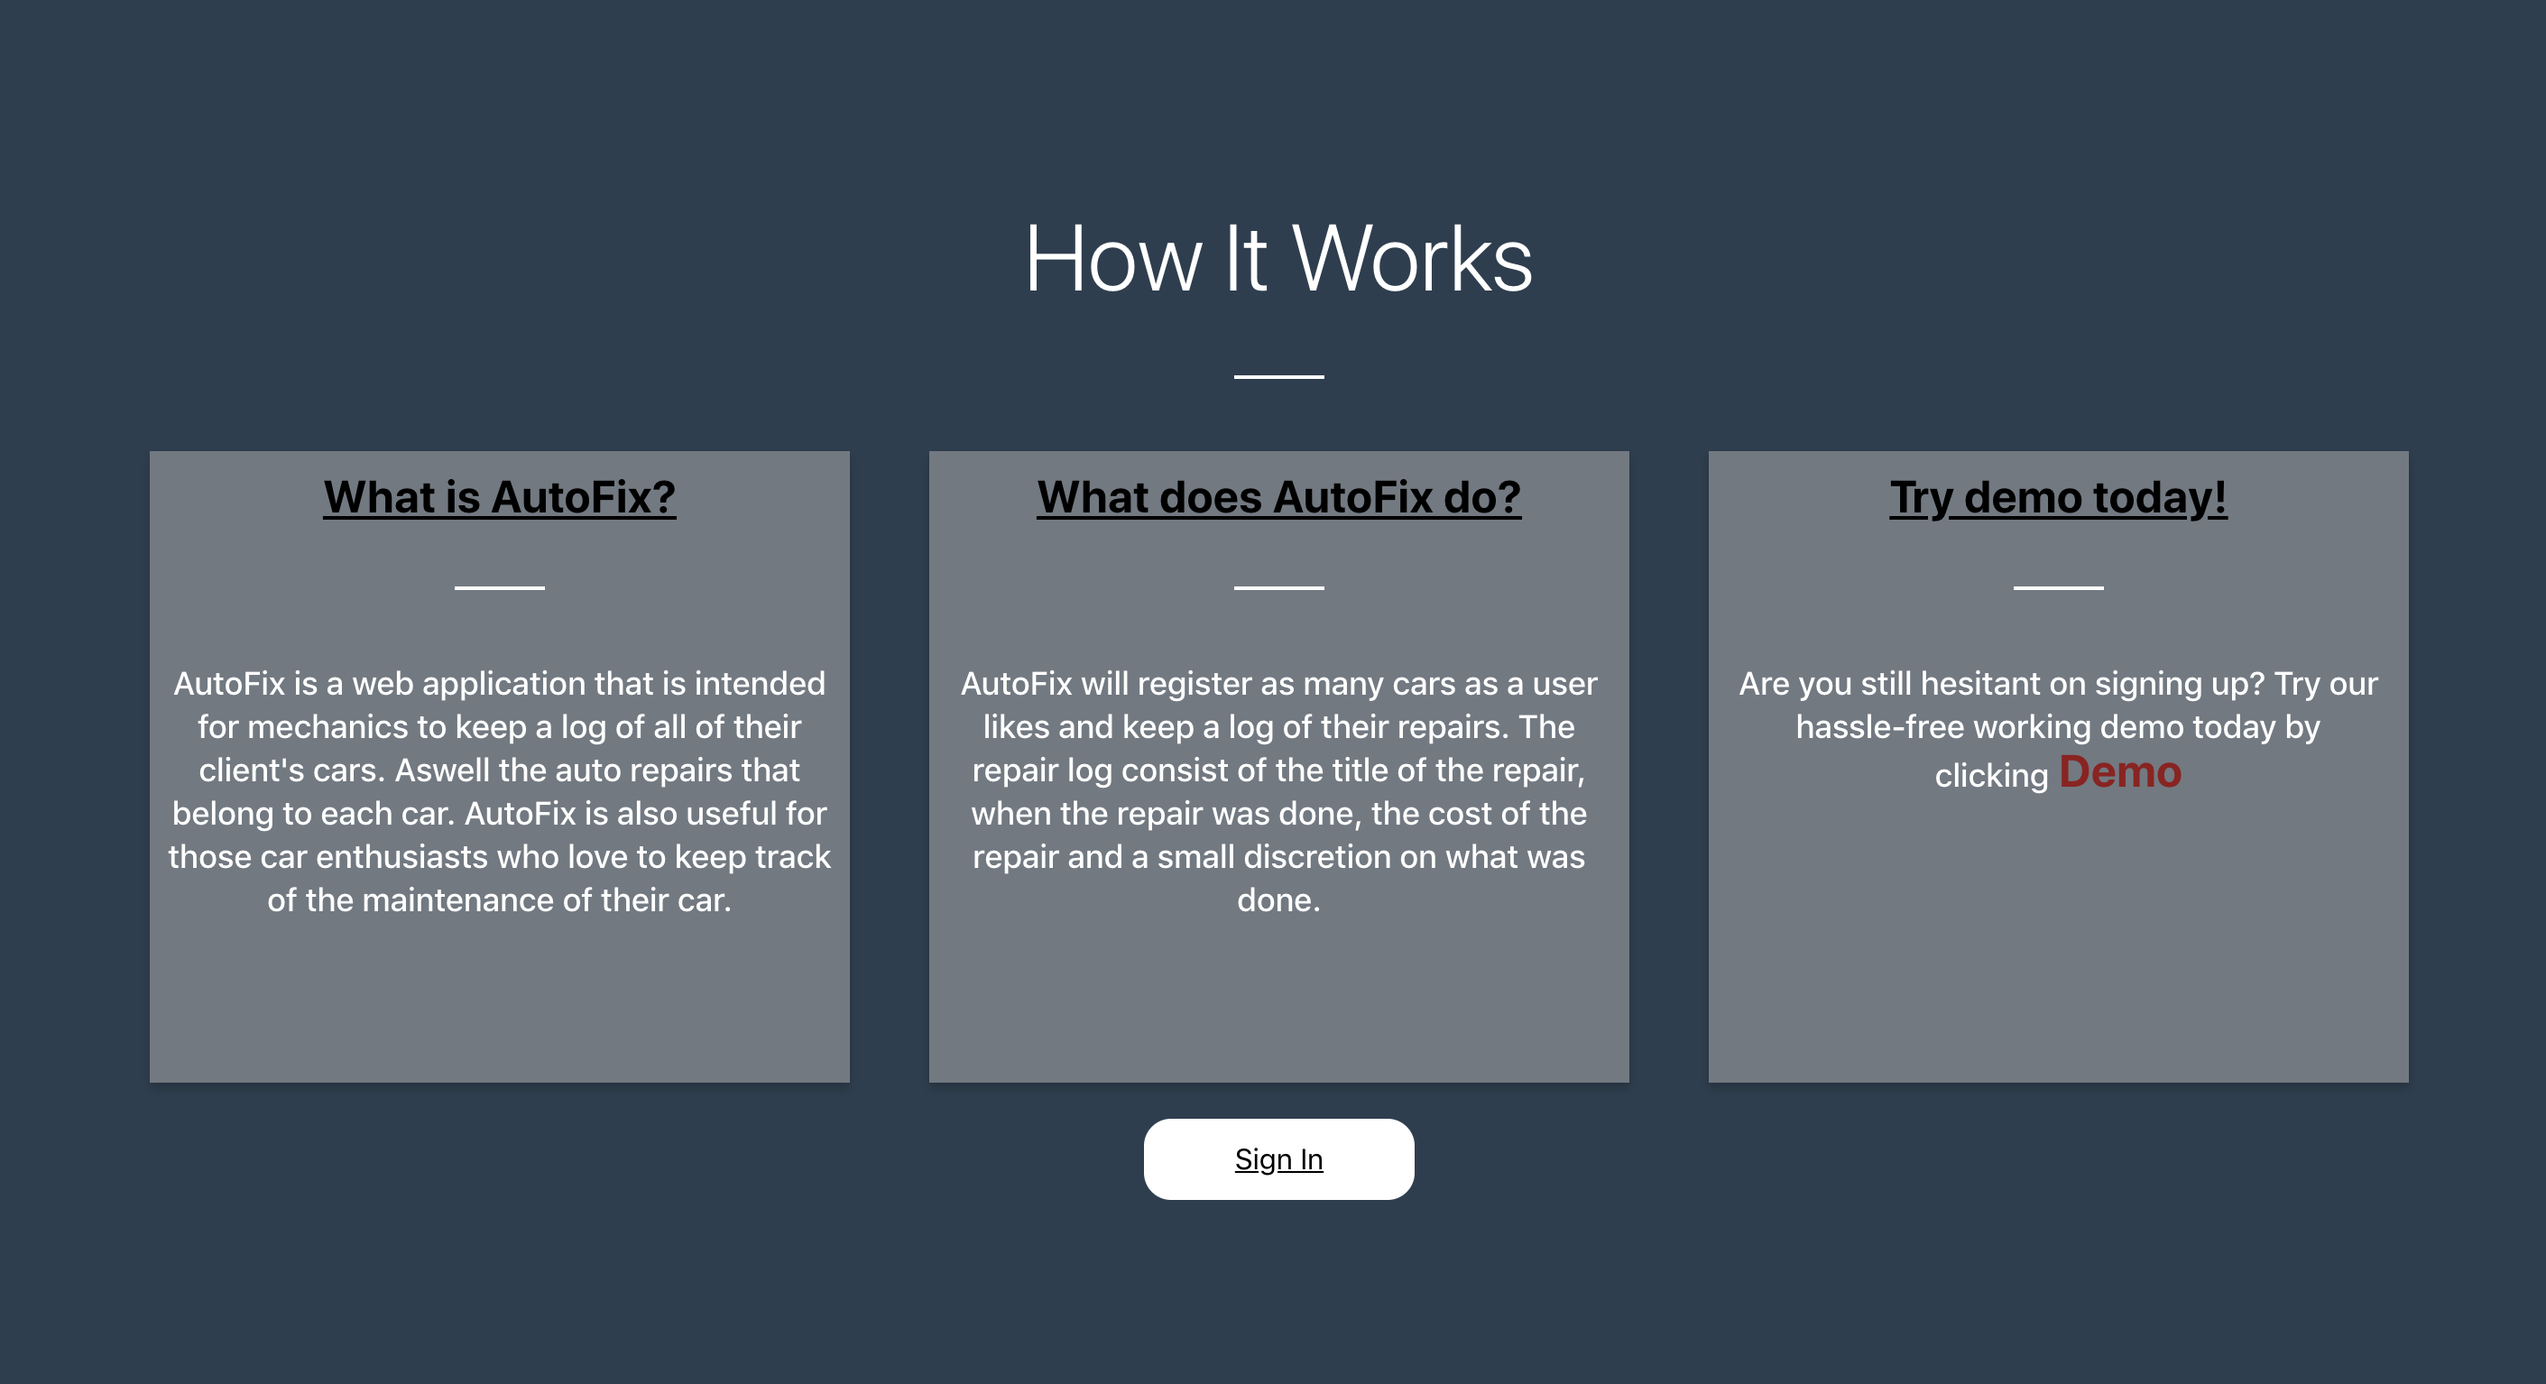
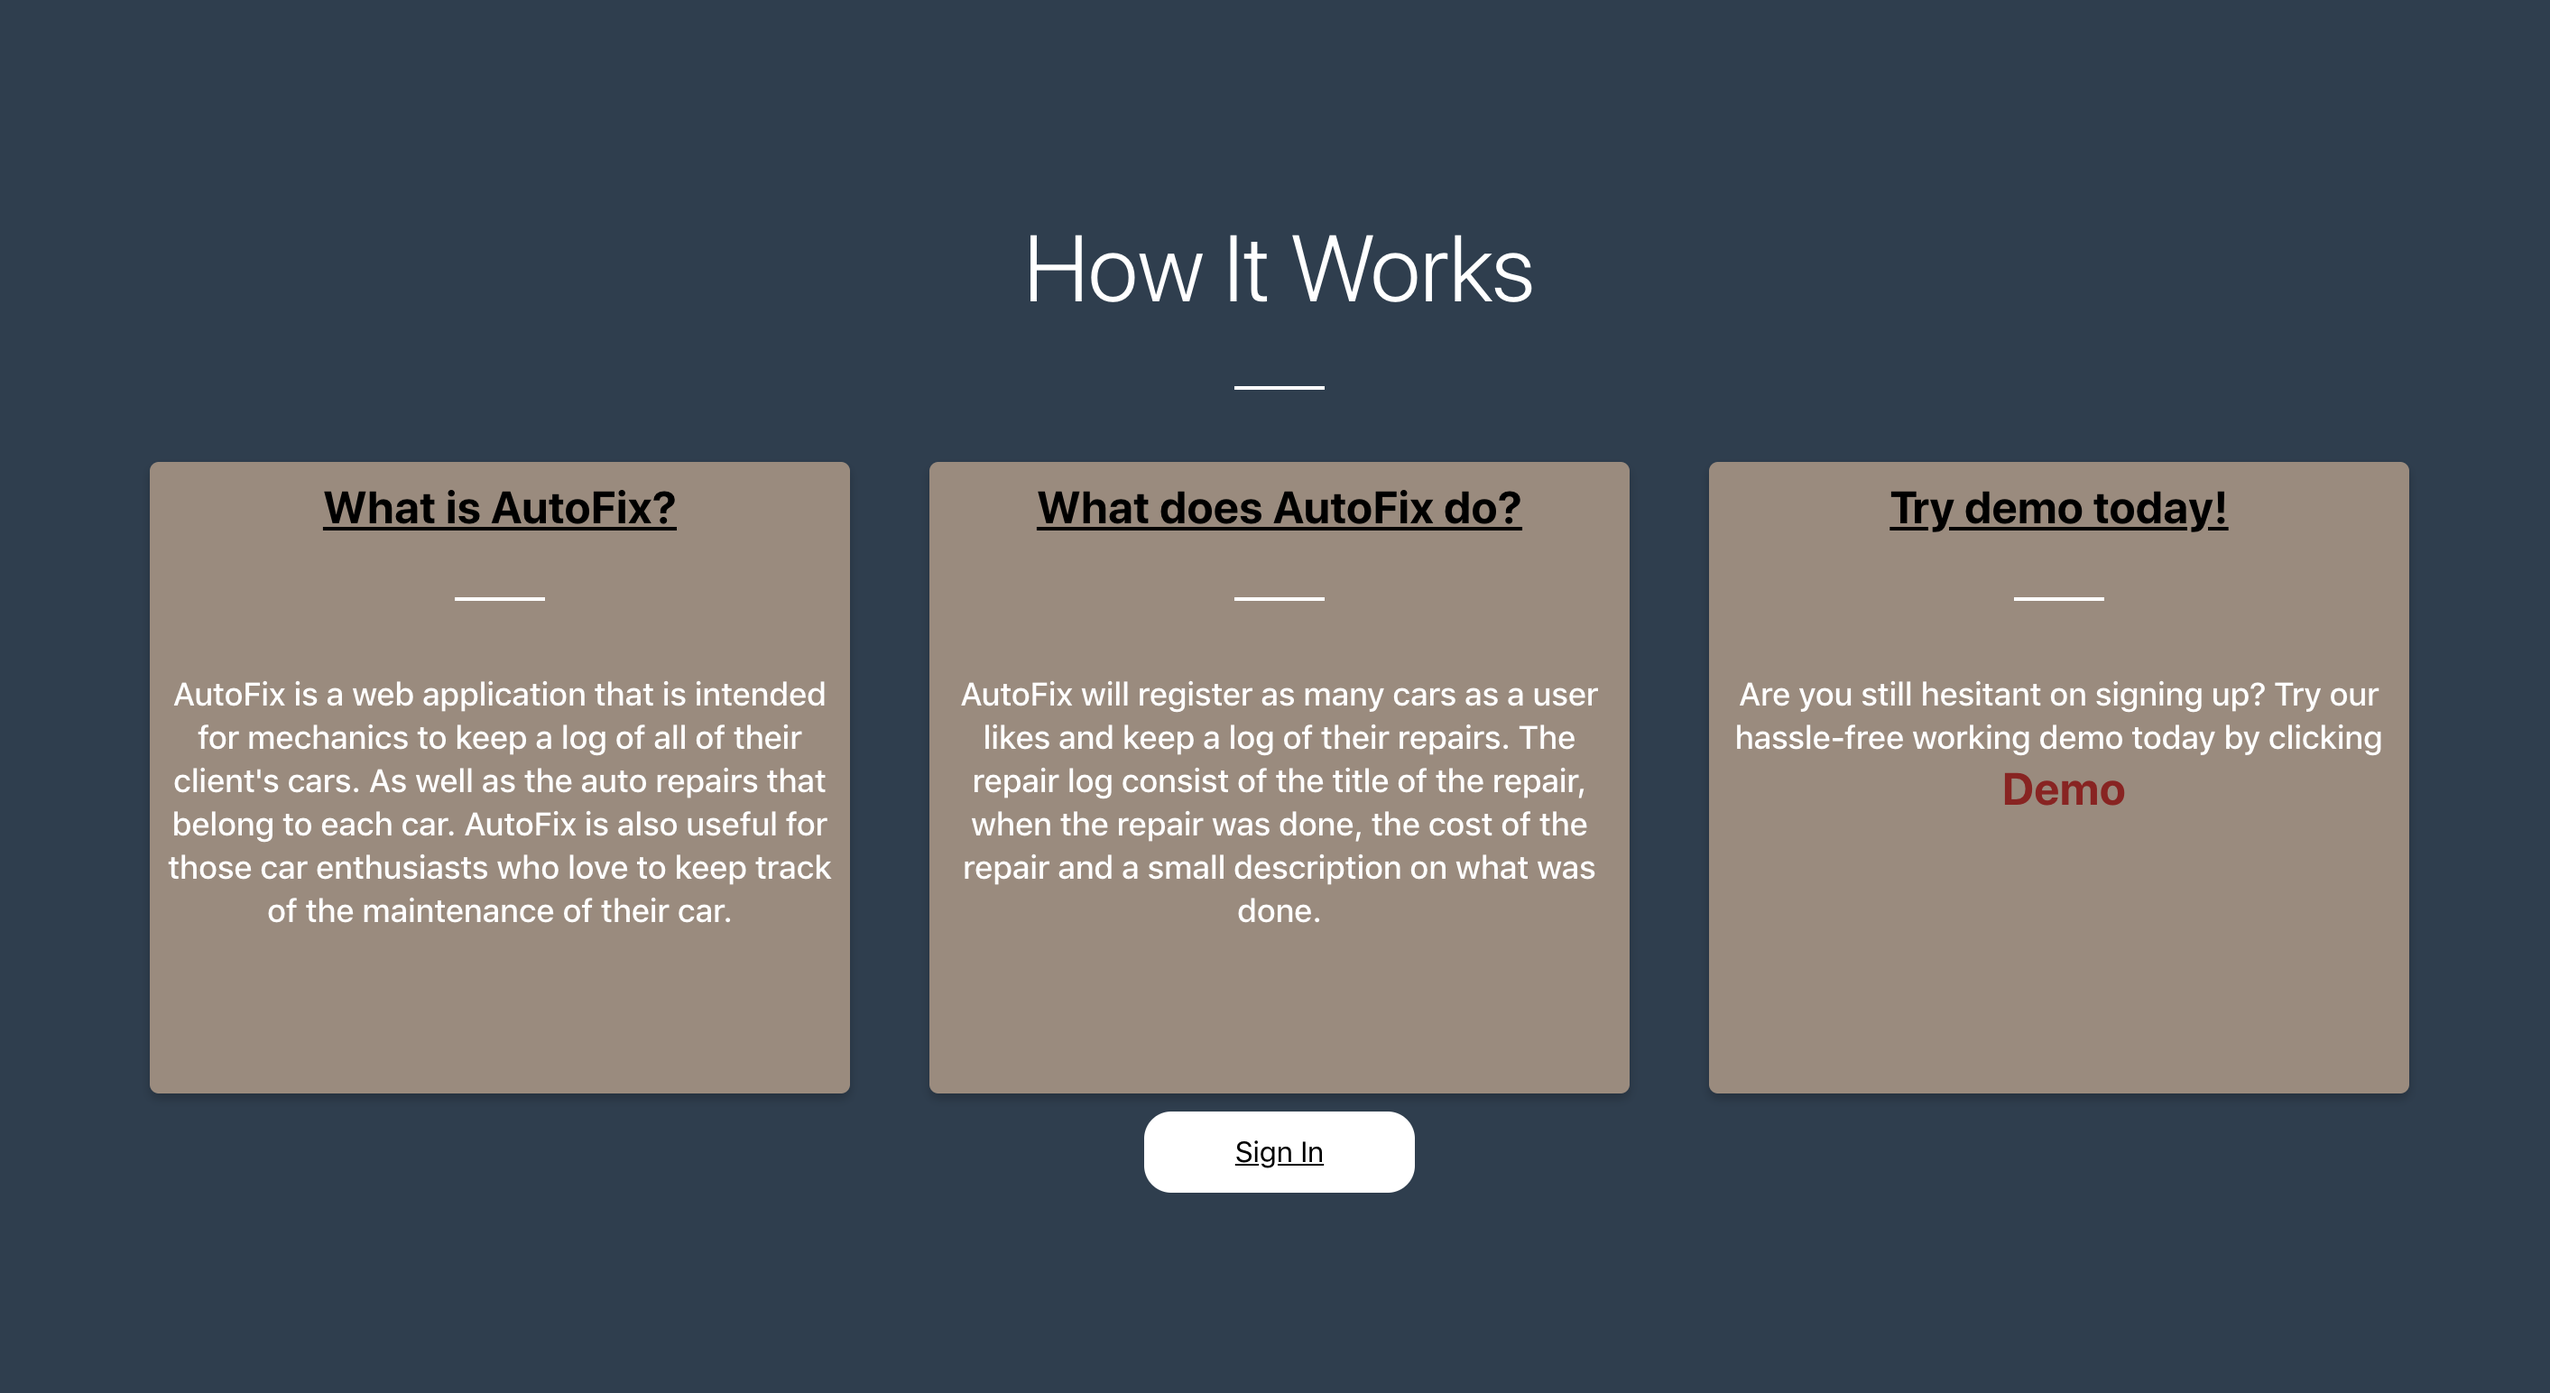
cleaned up code

diff --git a/src/Login/Login.js b/src/Login/Login.js
@@ -16,12 +16,19 @@ class Login extends React.Component {
         this.lastNameInput = React.createRef();
 
     }
+    componentDidMount() {
+        if(localStorage.authToken) {
+            this.props.history.push('/profile')
+        }
+    } 
     onLogin(value) {
         this.context.setUserName(value);
 
     }
     toggleHidden() {
         this.setState({ login: !this.state.login })
+        this.usernameInput.current.value = "";
+        this.passwordInput.current.value = "";
     }
     registerNewUser(event) {
         event.preventDefault();
@@ -72,9 +79,9 @@ class Login extends React.Component {
             return (
                 <section className="signin-register">
 
-                    <form className="signin-form">
+                    <form className="signin-form" onSubmit={e => this.loginUser(e)}>
                         <h2 className="login-header">Log In</h2>
-                        <label for="username"></label>
+                        <label htmlFor="username"></label>
                         <input
                             className="form-input"
                             id="username"
@@ -82,21 +89,22 @@ class Login extends React.Component {
                             name="username"
                             placeholder="Username"
                             ref={this.usernameInput}
-                            onChange={e => this.onLogin(e.target.value)} />
+                            onChange={e => this.onLogin(e.target.value)} required/>
                         <br /><br />
-                        <label></label>
-                        <input for="password"
+                        <label htmlFor="password"></label>
+                        <input
                             className="form-input"
                             id="password"
                             type="password"
                             name="password"
                             placeholder="Password"
                             ref={this.passwordInput}
+                            required
                         />
                         <br /><br />
-                        <button className="login-button" type="submit" onClick={e => this.loginUser(e)}>Log In</button><br /><br />
+                        <button className="login-button" type="submit">Log In</button><br /><br />
 
-                        Don't have account?<a onClick={e => this.toggleHidden()} href="#" className="register" >&nbsp;Sign Up</a>
+                        Don't have account?<button onClick={e => this.toggleHidden()} href="#" className="register" >&nbsp;Sign Up</button>
 
                     </form>
                 </section>
@@ -105,19 +113,19 @@ class Login extends React.Component {
         else {
             return (
                 <section className="signin-register">
-                    <form className="register-form">
+                    <form className="register-form"  onSubmit={e => this.registerNewUser(e)}>
                         <h2 className="register-header">Sign Up</h2>
-                        <label for="userName"></label>
-                        <input className="form-input" id="userName" type="text" name="userName" placeholder="Username" ref={this.usernameInput} /><br /><br />
-                        <label for="firstName"></label>
-                        <input className="form-input" id="firstName" type="text" name="firstName" placeholder="First name" ref={this.nameInput} /><br /><br />
-                        <label for="lastName"></label>
-                        <input className="form-input" id="lastName" type="text" name="lastName" placeholder="Last name" ref={this.lastNameInput} /><br /><br />
-                        <label for="password"></label>
-                        <input className="form-input" id="password" type="password" name="pass" placeholder="Password" ref={this.passwordInput} /><br /><br />
-                        <label for="password"></label>
-                        <input className="form-input" type="password" name="pass" placeholder="Confirm Password" /><br /><br />
-                        <button className="register-button" type='submit' onClick={e => this.registerNewUser(e)}>Sign Up</button>
+                        <label htmlFor="userName"></label>
+                        <input className="form-input" id="userName" type="text" name="userName" placeholder="Username" ref={this.usernameInput} required/><br /><br />
+                        <label htmlFor="firstName"></label>
+                        <input className="form-input" id="firstName" type="text" name="firstName" placeholder="First name" ref={this.nameInput} required/><br /><br />
+                        <label htmlFor="lastName"></label>
+                        <input className="form-input" id="lastName" type="text" name="lastName" placeholder="Last name" ref={this.lastNameInput} required/><br /><br />
+                        <label htmlFor="password"></label>
+                        <input className="form-input" id="password" type="password" name="pass" placeholder="Password" ref={this.passwordInput} required/><br /><br />
+                        <label htmlFor="password"></label>
+                        <input className="form-input" type="password" name="pass" placeholder="Confirm Password" required/><br /><br />
+                        <button className="register-button" type='submit'>Sign Up</button>
                         <button className="cancel" onClick={e => this.toggleHidden()}>Cancel</button>
                     </form>
                 </section>

diff --git a/src/FixForm/FixForm.js b/src/FixForm/FixForm.js
@@ -32,21 +32,21 @@ class FixForm extends React.Component {
                 <Header {...this.props} />
                 <div className="fix-form-container">
                     <form className="fix-form" onSubmit={e => this.handleSubmit(e)}>
-                        <ul class="flex-outer">
+                        <ul className="flex-outer">
                             <li>
-                            <label for="title">Fix Title</label>
-                            <input id="title" type="text" name="title"></input>
+                            <label htmlFor="title">Fix Title</label>
+                            <input id="title" type="text" name="title" required></input>
                             </li>
                             <li>
-                            <label for="date">Date</label>
-                            <input id="date" type="date" name="date"></input>
+                            <label htmlFor="date">Date</label>
+                            <input id="date" type="date" name="date" required></input>
                             </li>
                             <li>
-                            <label for="cost">Cost</label>
-                            <input id="cost" type="text" name="cost"></input>
+                            <label htmlFor="cost">Cost</label>
+                            <input id="cost" type="text" name="cost" required></input>
                             </li>
-                            <label className="text-label" for="discription">Discription</label>
-                            <textarea id="discription" name="description" ></textarea>
+                            <label className="text-label" htmlFor="description" required>Description</label>
+                            <textarea id="description" name="description" ></textarea>
                             <button className="fix-submit" type="submit">Submit</button>
                         </ul>
                     </form>

diff --git a/src/About /AboutCards.js b/src/About /AboutCards.js
@@ -30,7 +30,7 @@ class AboutCards extends React.Component {
                     <hr className="short-line cards-line" />
                     <p className="card-paragraph">
                         AutoFix is a web application that is intended for mechanics to keep a log of all of their client's
-                        cars. Aswell the auto repairs that belong to each car. AutoFix is also useful for those car enthusiasts who love to keep track of the maintenance of their car.
+                        cars. As well as the auto repairs that belong to each car. AutoFix is also useful for those car enthusiasts who love to keep track of the maintenance of their car.
                     </p>
                 </div>
                 <div className="about-card">
@@ -48,7 +48,7 @@ class AboutCards extends React.Component {
                     <hr className="short-line cards-line" />
                     <p className="card-paragraph">
                         Are you still hesitant on signing up? Try our hassle-free working demo today by clicking
-                        <a className="demo-link" onClick={() => this.handleDemo()}>&nbsp;Demo</a>
+                        <button className="demo-link" onClick={() => this.handleDemo()}>&nbsp;Demo</button>
                     </p>
                 </div>
             </div>

diff --git a/src/CarForm/CarForm.js b/src/CarForm/CarForm.js
@@ -36,17 +36,17 @@ class CarForm extends React.Component {
             <div className="car-form-container">
                 
                 <form className="car-form" onSubmit={e => this.onSubmit(e)}>
-                    <ul class="flex-outer">
+                    <ul className="flex-outer">
                     <li>
-                    <label for="year">Year</label>
+                    <label htmlFor="year">Year</label>
                     <input type="number" id="year" name="year" required/>
                     </li>
                     <li>
-                    <label for="make">Make</label>
+                    <label htmlFor="make">Make</label>
                     <input type="text" id="make" name="make" required/>
                     </li>
                     <li>
-                    <label for="model">Model</label>
+                    <label htmlFor="model">Model</label>
                     <input id="model" type="text" name="model" required/>
                     </li>
                     <button className="car-submit" type="submit">Submit</button>

diff --git a/public/index.html b/public/index.html
@@ -2,7 +2,7 @@
 <html lang="en">
   <head>
     <meta charset="utf-8" />
-    <link rel="shortcut icon" href="%PUBLIC_URL%/favicon.ico" />
+    <link rel="shortcut icon" sizes="32x32" href="%PUBLIC_URL%/favicon.ico" />
     <meta name="viewport" content="width=device-width, initial-scale=1" />
     <meta name="theme-color" content="#000000" />
     <!--
@@ -19,7 +19,7 @@
       work correctly both with client-side routing and a non-root public URL.
       Learn how to configure a non-root public URL by running `npm run build`.
     -->
-    <title>React App</title>
+    <title>AutoFix</title>
   </head>
   <body>
     <noscript>You need to enable JavaScript to run this app.</noscript>

diff --git a/src/Header/Header.js b/src/Header/Header.js
@@ -8,8 +8,6 @@ logout() {
         console.log("logout")
         localStorage.clear();
         this.props.history.push('/')
-        // window.location = '/'
-
 }
     render () {
         return (
@@ -21,7 +19,7 @@ logout() {
                         Profile
                         </Link>
                     </li>
-                    <li><Link className="nav-link" onClick={() => this.logout()}>Signout</Link></li>
+                    <li><button className="nav-link" href="#" onClick={() => this.logout()}>Signout</button></li>
                 </ul>
             </nav>
         )

diff --git a/src/FixList/FixList.js b/src/FixList/FixList.js
@@ -41,7 +41,7 @@ class FixList extends React.Component {
         const fixs = this.state.fix.map(item => {
 
             return (
-                <Fix item={item} handleDeleteFix={id => this.handleDeleteFix(id)} />
+                <Fix key={item._id} item={item} handleDeleteFix={id => this.handleDeleteFix(id)} />
             )
         });
 

diff --git a/src/RegisteredList/RegisteredList.js b/src/RegisteredList/RegisteredList.js
@@ -29,7 +29,7 @@ class RegisteredList extends React.Component {
 
         const cars = this.context.cars.map(car => {
             return (
-                <Car handleDelete={(id) => this.handleDelete(id)} car={car} />
+                <Car key={car._id} handleDelete={(id) => this.handleDelete(id)} car={car} />
             )
         });
 

diff --git a/src/Header/Header.css b/src/Header/Header.css
@@ -30,7 +30,9 @@
 .nav-link {
     text-decoration: none;
     color: white;
-    
+    background: none;
+    border: none;
+    font-size: 18px;
 }
 
 .nav-list li .nav-link:hover,
@@ -38,3 +40,4 @@
     border-bottom: 2px solid #ccc;
     padding-bottom: 8px;
 }
+

diff --git a/src/Login/Login.css b/src/Login/Login.css
@@ -92,3 +92,15 @@
     cursor: pointer;
 }
 
+.register {
+    background: none;
+    border: none;
+    font-size: 15px;
+    color: #e6e676;
+    font-weight: 700;
+    cursor: pointer;
+}
+
+.register:hover {
+    text-decoration: underline;
+}

diff --git a/src/About /About.css b/src/About /About.css
@@ -86,6 +86,8 @@ h2 {
 }
 
 .demo-link {
+  background: none;
+  border: none;
   font-size: 25px;
   cursor: pointer;
   color: #94161c;
